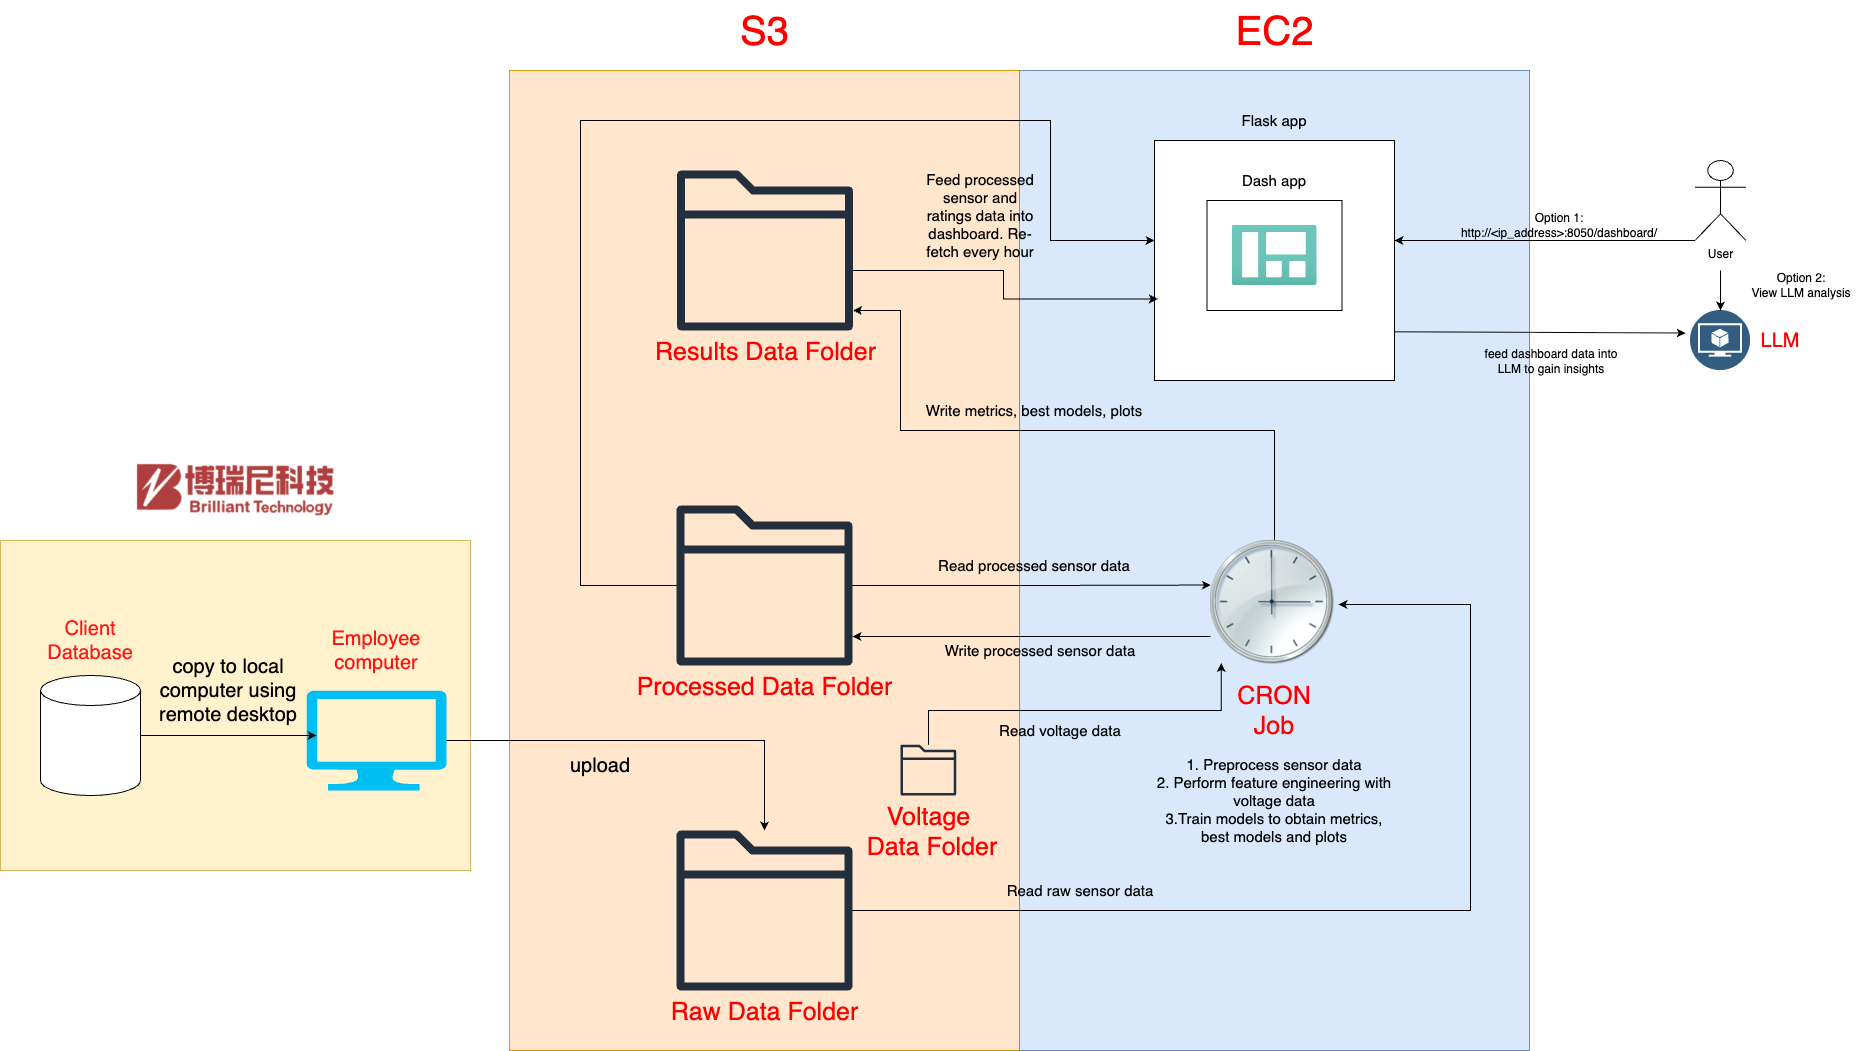
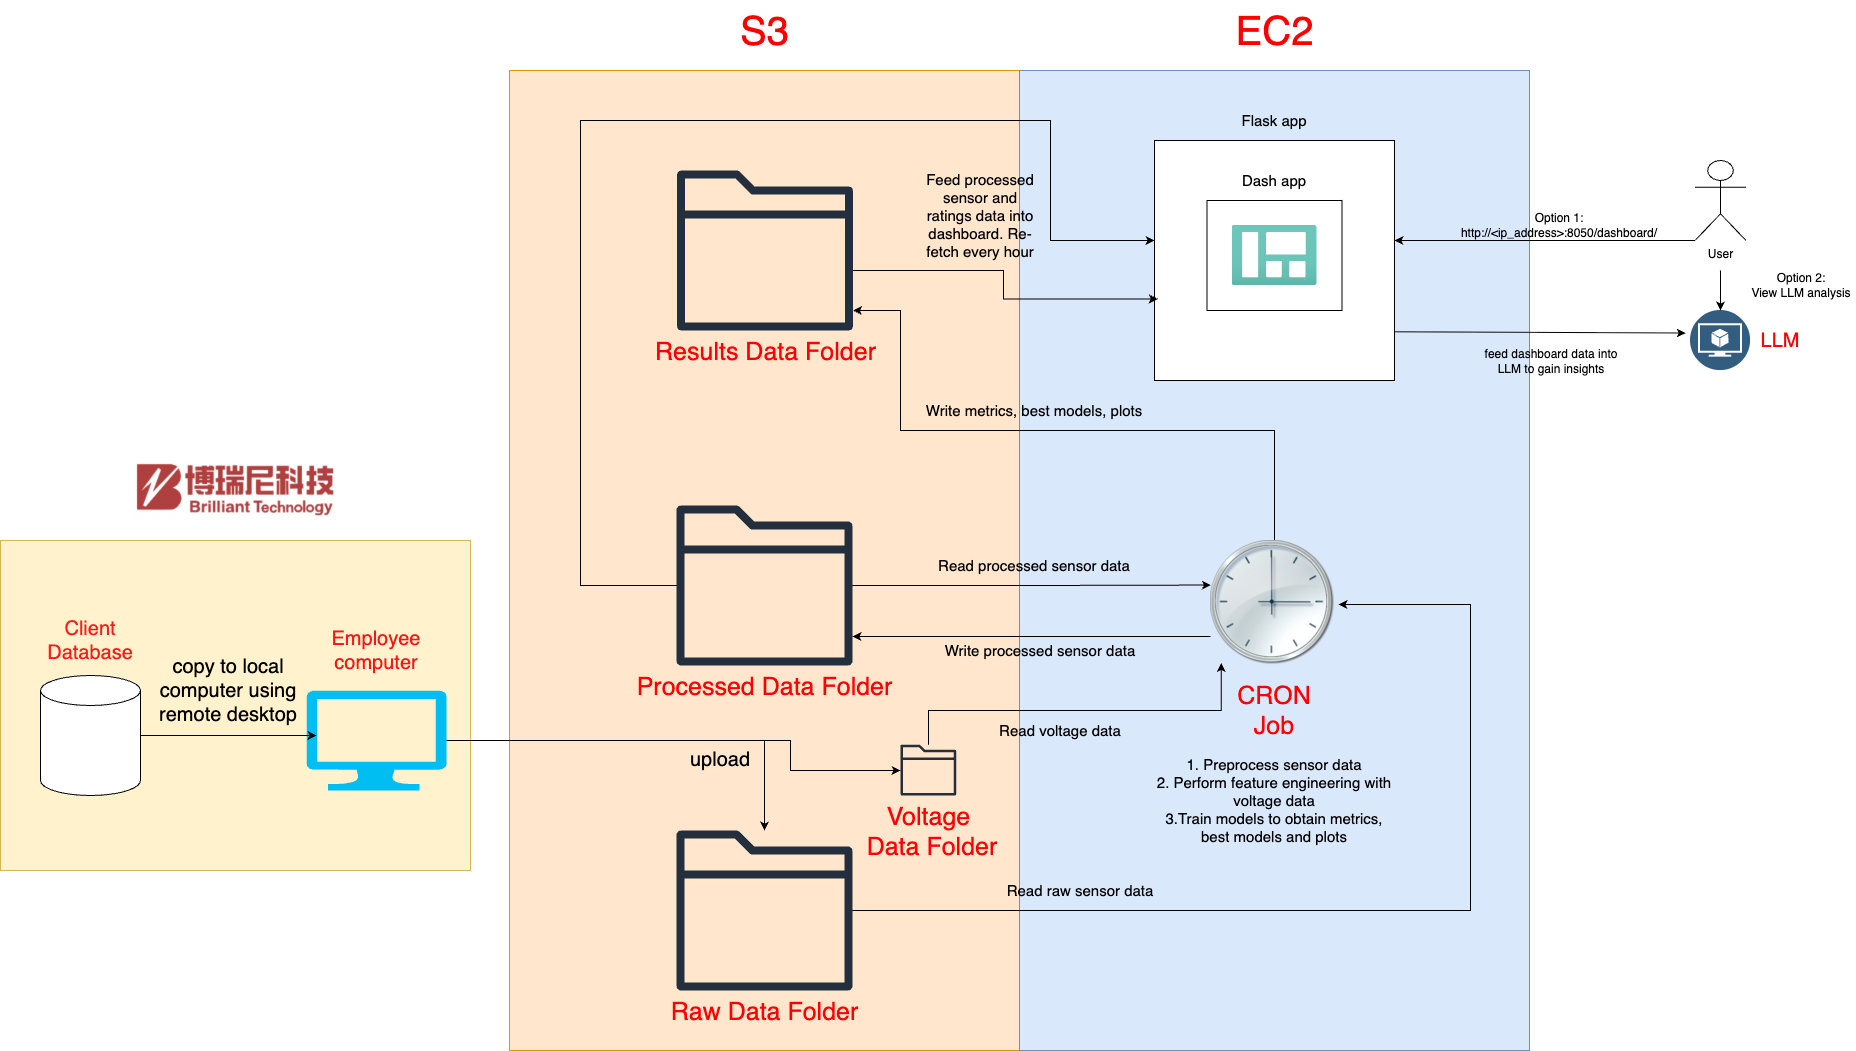
Update AWS pipeline design diagram

diff --git a/README.md b/README.md
@@ -138,8 +138,6 @@ python model/src/preprocess.py --device "<device_name>" [--data_dir <data_direct
 
 ## **6. How to Run the Dashboard**
 
-The dashboard currently uses sample data in `data/sample_belt_conveyer.csv` and does not reflect results from our models.
-
 ```bash
 cd dashboard/src
 python -m app
